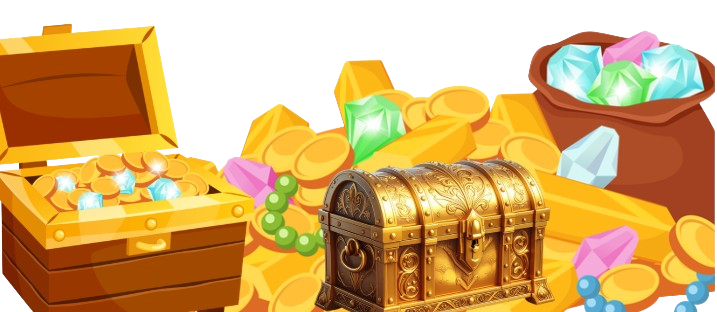
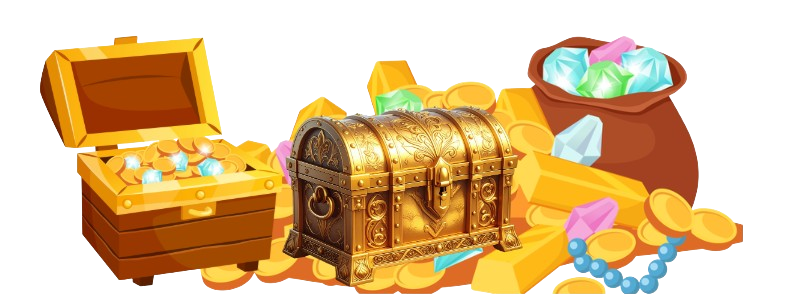
update

diff --git a/user/pages/spin/index.tsx b/user/pages/spin/index.tsx
@@ -354,6 +354,7 @@ export default function SpinPage() {
           width: 340px;
           height: 340px;
           margin: 20px auto;
+          z-index: 2;
         }
 
         /* Outer ring */
@@ -813,10 +814,10 @@ export default function SpinPage() {
         .spin-treasure {
           width: 380px;
           max-width: 90%;
-          margin-top: -80px;
+          margin-top: -60px;
           pointer-events: none;
           position: relative;
-          z-index: 0;
+          z-index: 1;
         }
 
         @media (max-width: 420px) {
